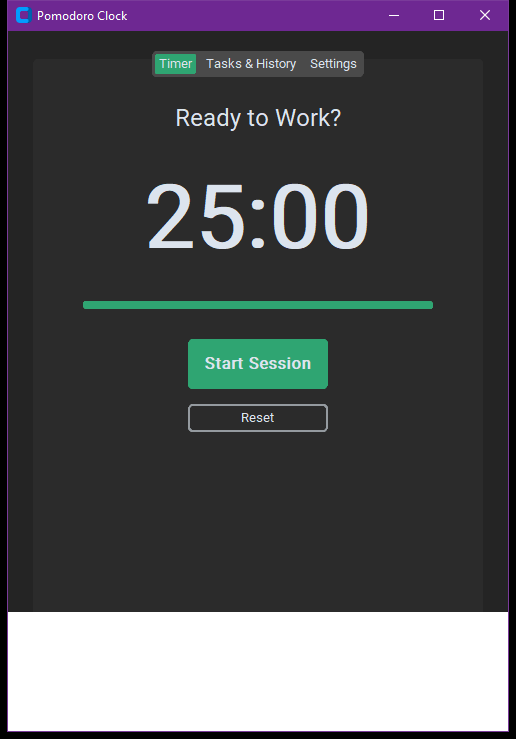
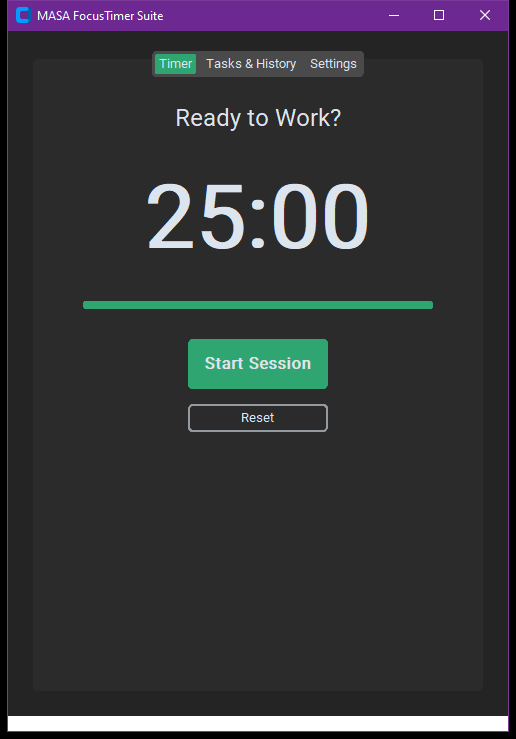
refactor: apply MASA window branding, strip comments and format code style

Changed region(s): [[0.0, 0.8092, 0.9922, 0.9959], [0.062, 0.0, 0.3101, 0.0311]]

diff --git a/Pomodoro Clock Using Tkinter in Python/main.py b/Pomodoro Clock Using Tkinter in Python/main.py
@@ -11,34 +11,31 @@ import time
 from datetime import datetime
 import os
 
-# Appearance
 ctk.set_appearance_mode("Dark")
 ctk.set_default_color_theme("green")
+
 
 class ProPomodoro(ctk.CTk):
     def __init__(self):
         super().__init__()
 
-        self.title("Pomodoro Clock")
+        self.title("MASA FocusTimer Suite")
         self.geometry("500x700")
-        
-        # State Variables
+
         self.reps = 0
         self.timer = None
         self.is_running = False
         self.is_paused = False
         self.remaining_time = 0
         self.total_time_for_session = 0
-        
-        # Default Settings
+
         self.work_mins = 25
         self.short_break = 5
         self.long_break = 20
 
-        # --- Layout ---
         self.tabview = ctk.CTkTabview(self, width=450, height=650)
         self.tabview.pack(pady=10, padx=10)
-        
+
         self.tab_timer = self.tabview.add("Timer")
         self.tab_tasks = self.tabview.add("Tasks & History")
         self.tab_settings = self.tabview.add("Settings")
@@ -46,8 +43,6 @@ class ProPomodoro(ctk.CTk):
         self.setup_timer_ui()
         self.setup_task_ui()
         self.setup_settings_ui()
-
-    # ---------------------------- UI SECTIONS ------------------------------- #
 
     def setup_timer_ui(self):
         self.status_label = ctk.CTkLabel(self.tab_timer, text="Ready to Work?", font=("Roboto", 24))
@@ -60,10 +55,18 @@ class ProPomodoro(ctk.CTk):
         self.progress.set(1)
         self.progress.pack(pady=20)
 
-        self.btn_start = ctk.CTkButton(self.tab_timer, text="Start Session", command=self.control_timer, height=50, font=("Roboto", 16, "bold"))
+        self.btn_start = ctk.CTkButton(
+            self.tab_timer,
+            text="Start Session",
+            command=self.control_timer,
+            height=50,
+            font=("Roboto", 16, "bold"),
+        )
         self.btn_start.pack(pady=10)
 
-        self.btn_reset = ctk.CTkButton(self.tab_timer, text="Reset", fg_color="transparent", border_width=2, command=self.reset_timer)
+        self.btn_reset = ctk.CTkButton(
+            self.tab_timer, text="Reset", fg_color="transparent", border_width=2, command=self.reset_timer
+        )
         self.btn_reset.pack(pady=5)
 
     def setup_task_ui(self):
@@ -72,46 +75,57 @@ class ProPomodoro(ctk.CTk):
 
         self.task_entry = ctk.CTkEntry(self.task_frame, placeholder_text="Name your session...", width=250)
         self.task_entry.grid(row=0, column=0, padx=5)
-        
+
         ctk.CTkLabel(self.tab_tasks, text="Session History", font=("Roboto", 16, "bold")).pack(pady=(10, 0))
         self.history_box = ctk.CTkTextbox(self.tab_tasks, width=400, height=350)
         self.history_box.pack(pady=10)
-        
+
         self.history_btn_frame = ctk.CTkFrame(self.tab_tasks, fg_color="transparent")
         self.history_btn_frame.pack(pady=5)
 
-        self.clear_btn = ctk.CTkButton(self.history_btn_frame, text="Clear History", 
-                                       fg_color="#e74c3c", hover_color="#c0392b",
-                                       command=self.clear_history, width=120)
+        self.clear_btn = ctk.CTkButton(
+            self.history_btn_frame,
+            text="Clear History",
+            fg_color="#e74c3c",
+            hover_color="#c0392b",
+            command=self.clear_history,
+            width=120,
+        )
         self.clear_btn.grid(row=0, column=0, padx=10)
 
         self.load_history()
 
     def setup_settings_ui(self):
         ctk.CTkLabel(self.tab_settings, text="Work Duration (min)").pack(pady=(10, 0))
-        
-        self.work_value_label = ctk.CTkLabel(self.tab_settings, text="25 min", font=("Roboto", 14, "bold"), text_color="#2ecc71")
+
+        self.work_value_label = ctk.CTkLabel(
+            self.tab_settings, text="25 min", font=("Roboto", 14, "bold"), text_color="#2ecc71"
+        )
         self.work_value_label.pack()
 
-        self.work_slider = ctk.CTkSlider(self.tab_settings, from_=1, to=60, command=lambda v: self.update_times())
+        self.work_slider = ctk.CTkSlider(
+            self.tab_settings, from_=1, to=60, command=lambda v: self.update_times()
+        )
         self.work_slider.set(25)
         self.work_slider.pack(pady=10)
 
         ctk.CTkLabel(self.tab_settings, text="Break Duration (min)").pack(pady=(10, 0))
-        
-        self.break_value_label = ctk.CTkLabel(self.tab_settings, text="5 min", font=("Roboto", 14, "bold"), text_color="#3498db")
+
+        self.break_value_label = ctk.CTkLabel(
+            self.tab_settings, text="5 min", font=("Roboto", 14, "bold"), text_color="#3498db"
+        )
         self.break_value_label.pack()
 
-        self.break_slider = ctk.CTkSlider(self.tab_settings, from_=1, to=30, command=lambda v: self.update_times())
+        self.break_slider = ctk.CTkSlider(
+            self.tab_settings, from_=1, to=30, command=lambda v: self.update_times()
+        )
         self.break_slider.set(5)
         self.break_slider.pack(pady=10)
-
-    # ---------------------------- LOGIC ------------------------------- #
 
     def update_times(self):
         self.work_mins = int(self.work_slider.get())
         self.short_break = int(self.break_slider.get())
-        
+
         self.work_value_label.configure(text=f"{self.work_mins} min")
         self.break_value_label.configure(text=f"{self.short_break} min")
 
@@ -130,7 +144,7 @@ class ProPomodoro(ctk.CTk):
         self.is_running = True
         self.is_paused = False
         self.reps += 1
-        
+
         if self.reps % 8 == 0:
             self.remaining_time = self.long_break * 60
             self.status_label.configure(text="Long Break", text_color="#3498db")
@@ -140,7 +154,7 @@ class ProPomodoro(ctk.CTk):
         else:
             self.remaining_time = self.work_mins * 60
             self.status_label.configure(text="Deep Focus", text_color="#2ecc71")
-        
+
         self.total_time_for_session = self.remaining_time
         self.btn_start.configure(text="Pause", fg_color="#e74c3c")
         self.run_countdown()
@@ -159,7 +173,7 @@ class ProPomodoro(ctk.CTk):
     def run_countdown(self):
         mins, secs = divmod(self.remaining_time, 60)
         self.timer_label.configure(text=f"{mins:02d}:{secs:02d}")
-        
+
         if self.total_time_for_session > 0:
             self.progress.set(self.remaining_time / self.total_time_for_session)
 
@@ -167,16 +181,15 @@ class ProPomodoro(ctk.CTk):
             self.remaining_time -= 1
             self.timer = self.after(1000, self.run_countdown)
         else:
-            # STOPPED: No longer automatically calls start_new_session
             self.session_complete()
 
     def session_complete(self):
         self.is_running = False
-        self.bell() 
+        self.bell()
         self.status_label.configure(text="Session Finished!", text_color="#ffffff")
         self.btn_start.configure(text="Start Next", fg_color="#2ecc71")
-        
-        if self.reps % 2 != 0: 
+
+        if self.reps % 2 != 0:
             self.log_session()
 
     def reset_timer(self):
@@ -190,13 +203,12 @@ class ProPomodoro(ctk.CTk):
         self.btn_start.configure(text="Start Session", fg_color=["#2CC985", "#2FA572"])
 
     def log_session(self):
-        # Named session logic
         task = self.task_entry.get() or f"Session {math.ceil(self.reps/2)}"
         timestamp = datetime.now().strftime("%H:%M")
         log_entry = f"[{timestamp}] {task}\n"
-        
+
         self.history_box.insert("0.0", log_entry)
-        
+
         with open("history.txt", "a") as f:
             f.write(log_entry)
 
@@ -214,6 +226,7 @@ class ProPomodoro(ctk.CTk):
         self.history_box.delete("0.0", "end")
         if os.path.exists("history.txt"):
             os.remove("history.txt")
+
 
 if __name__ == "__main__":
     app = ProPomodoro()
